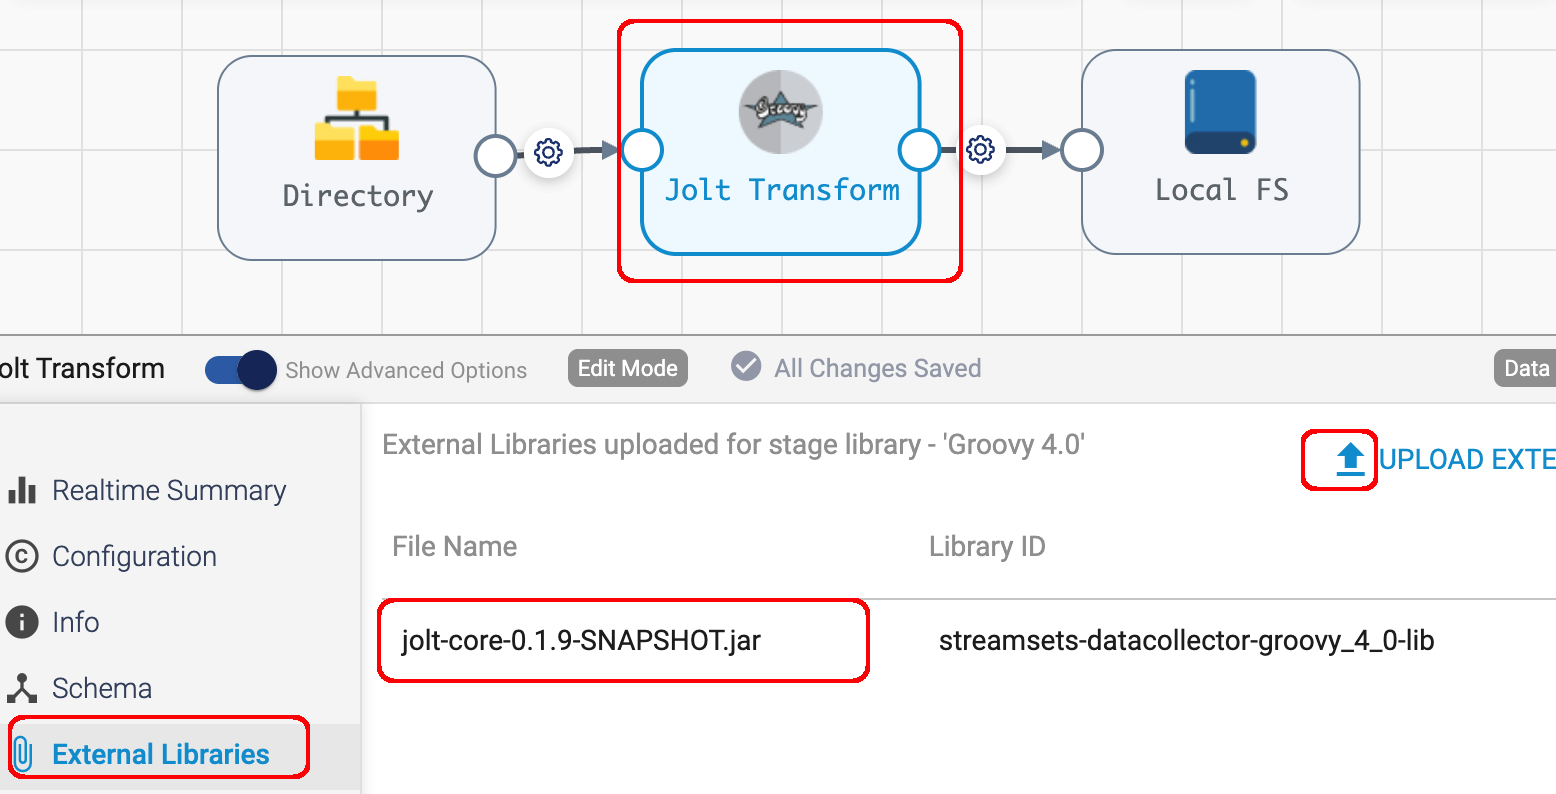
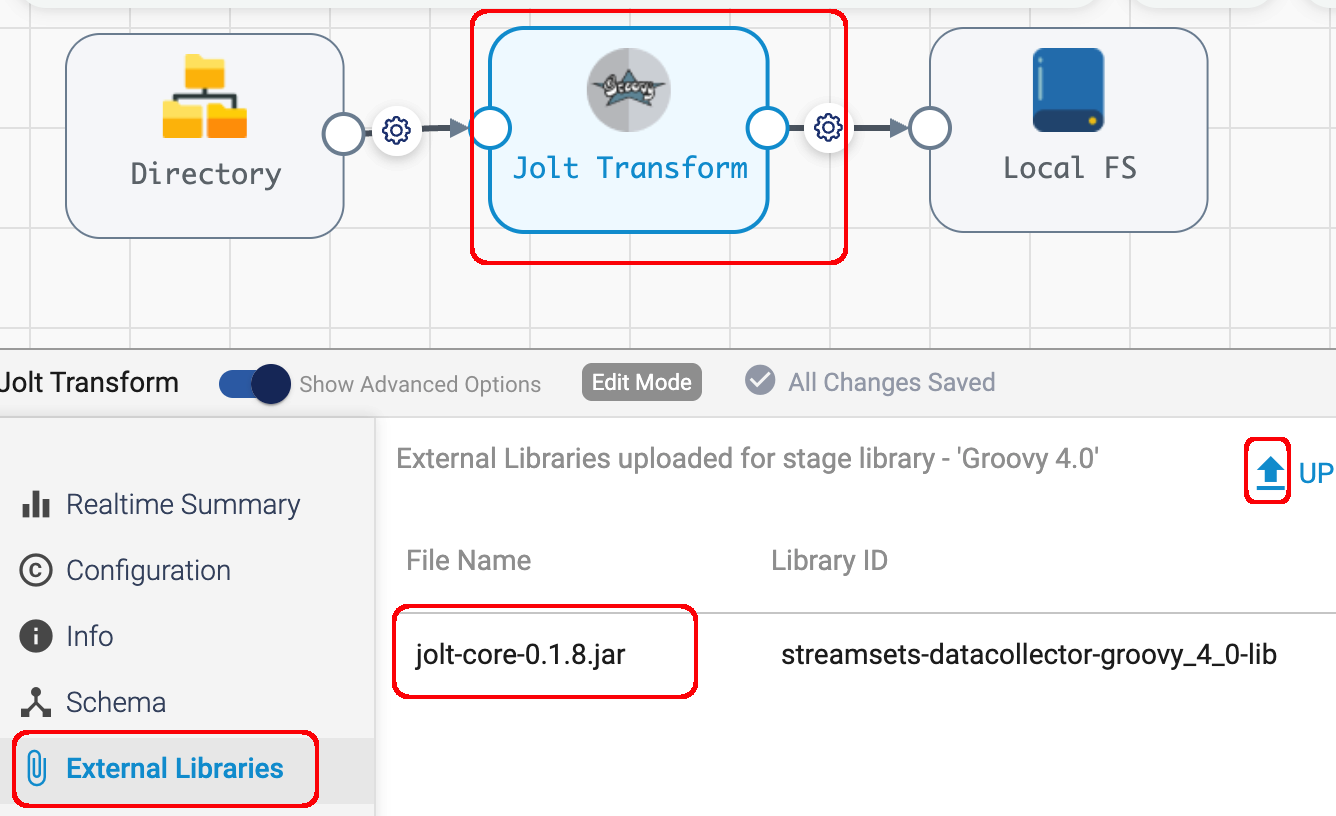
updates

diff --git a/README.md b/README.md
@@ -8,23 +8,12 @@ Thanks to Jean-Marie.Bertoncelli@ibm.com for recommending the use of Groovy's Js
 
 ### Prerequisites
 
-- Maven is needed to build the Jolt jar file
-
 - The Groovy 4.0 StreamSets stage lib
 
-### Build the Jolt project
+### Download the Jolt jar file
 
-- Clone the [Jolt Project](https://github.com/bazaarvoice/jolt) to your local machine
+- Download <code>jolt-core-0.1.8.jar</code> from [here](https://repo1.maven.org/maven2/com/bazaarvoice/jolt/jolt-core/0.1.8/jolt-core-0.1.8.jar)
 
-- Switch to the root of the project and build it:
-
-	<code>$ mvn package -DskipTests</code>
-	
-- This will generate the jar file we will import into the Groovy stage:
- ```
-		jolt-core/target/jolt-core-0.1.9-SNAPSHOT.jar
-	
-```
 
 ### Import the example pipeline
 
